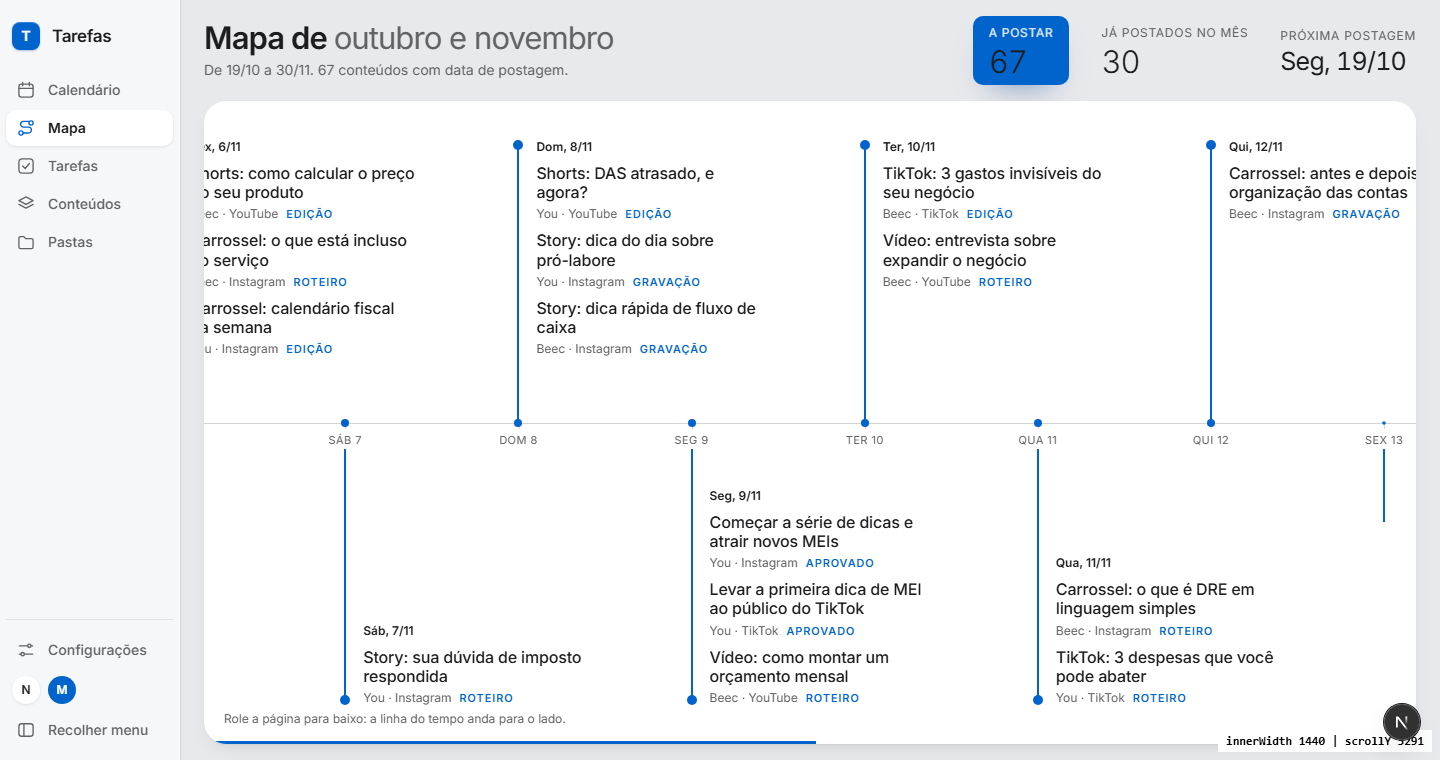
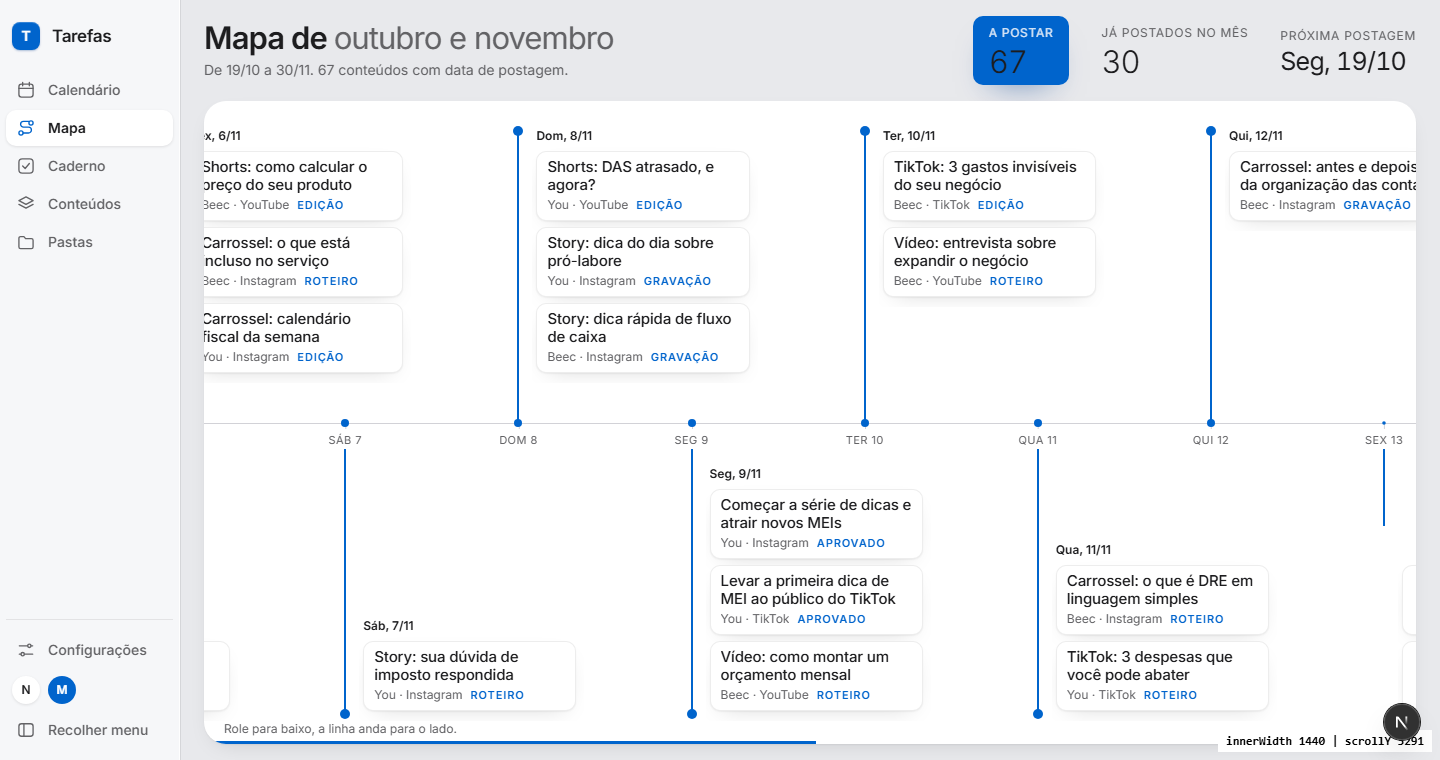
Mapa: cada conteúdo vira cartão que abre a ficha (item 75)

diff --git a/src/components/mapa/mapa.css b/src/components/mapa/mapa.css
@@ -45,7 +45,7 @@
   background: var(--sup); color: var(--texto); box-shadow: var(--sombra);
 }
 /* hastes altas: a bolinha fica perto da borda do card e os marcos usam a altura toda */
-.mapa-faixa { position: absolute; inset: 0 auto 0 0; width: calc((var(--dias) + var(--folga)) * var(--dia-w)); will-change: transform; --haste: calc(50cqh - 44px); }
+.mapa-faixa { position: absolute; inset: 0 auto 0 0; width: calc((var(--dias) + var(--folga)) * var(--dia-w)); will-change: transform; --haste: calc(50cqh - 30px); }
 
 .mapa-linha { position: absolute; left: 0; right: 0; top: 50%; height: 1px; background: var(--borda); transform-origin: left; }
 .mapa-dia { position: absolute; top: calc(50% + 12px); transform: translateX(-50%); font-size: 11px; line-height: 1; letter-spacing: 0.04em; text-transform: uppercase; color: var(--fraco); white-space: nowrap; }
@@ -66,36 +66,41 @@
 
 /* bloco do dia: data + conteúdos empilhados, ancorado na bolinha (em cima: cresce para baixo; embaixo: cresce para cima) */
 .mapa-bloco {
-  position: absolute; left: 18px; width: calc(var(--dia-w) * 1.3); min-width: 150px; max-width: 240px; max-height: calc(var(--haste) - 6px);
-  display: flex; flex-direction: column; gap: 8px;
+  position: absolute; left: 14px; padding: 3px 8px 10px 4px; /* folga para a sombra e o hover não serem cortados pela rolagem do bloco */
+  width: calc(var(--dia-w) * 1.3); min-width: 160px; max-width: 256px; max-height: calc(var(--haste) - 14px);
+  display: flex; flex-direction: column; gap: 6px;
   overflow-y: auto; scrollbar-width: thin; /* nunca esconde cartão: se o dia tiver mais do que cabe, o bloco rola por dentro */
 }
-.mapa-marco[data-lado="cima"] .mapa-bloco { top: calc(var(--haste) * -1 - 7px); }
+.mapa-marco[data-lado="cima"] .mapa-bloco { top: calc(var(--haste) * -1 - 7px); max-height: calc(var(--haste) + 2px); } /* em cima o bloco pode ir até perto da linha */
 .mapa-marco[data-lado="baixo"] .mapa-bloco { bottom: calc(var(--haste) * -1 - 7px); justify-content: flex-end; }
+/* cada conteúdo é um cartão: fundo branco, borda de 1px sutil, sombra macia e cantos da base da Névoa; clica (ou Enter) e abre a ficha */
 .mapa-card {
   --cor: var(--azul);
-  display: flex; flex-direction: column; gap: 3px; margin: 0; padding: 0; border: 0; background: none; text-align: left; cursor: pointer;
-  color: var(--texto); font: inherit; flex: none;
+  display: flex; flex-direction: column; gap: 2px; margin: 0; padding: 6px 10px; flex: none; text-align: left; cursor: pointer;
+  color: var(--texto); font: inherit;
+  background: var(--sup); border: 1px solid rgb(0 0 0 / 0.07); border-radius: var(--raio-b); box-shadow: var(--sombra);
+  transition: transform var(--dur) var(--curva), box-shadow var(--dur) var(--curva), border-color var(--dur) var(--curva);
 }
+.mapa-card:hover { transform: translateY(-1px); box-shadow: var(--sombra-alta); border-color: rgb(0 0 0 / 0.12); }
+.mapa-card:active { transform: none; }
 .mapa-card[data-postado="true"] { --cor: var(--fraco); }
 .mapa-bloco span { display: block; }
-.mapa-objetivo { font-size: 16px; font-weight: 500; line-height: 1.2; letter-spacing: -0.01em; display: -webkit-box !important; -webkit-box-orient: vertical; -webkit-line-clamp: 2; overflow: hidden; }
-.mapa-card:hover .mapa-objetivo { text-decoration: underline; text-underline-offset: 3px; text-decoration-color: var(--cor); }
-.mapa-card:focus-visible { outline: 2px solid var(--foco); outline-offset: 3px; border-radius: var(--raio-b); }
+.mapa-objetivo { font-size: 15px; font-weight: 500; line-height: 1.2; letter-spacing: -0.01em; display: -webkit-box !important; -webkit-box-orient: vertical; -webkit-line-clamp: 2; overflow: hidden; }
+.mapa-card:focus-visible { outline: 2px solid var(--foco); outline-offset: 2px; }
 .mapa-data { font-size: 12px; font-weight: 600; color: var(--texto); }
-.mapa-info { display: flex !important; flex-wrap: wrap; align-items: baseline; gap: 0 8px; }
-.mapa-meta { font-size: 12px; color: var(--fraco); }
-.mapa-estado { font-size: 11px; font-weight: 600; letter-spacing: 0.08em; text-transform: uppercase; color: var(--cor); }
+.mapa-info { display: flex !important; flex-wrap: nowrap; min-width: 0; align-items: baseline; gap: 0 8px; }
+.mapa-meta { font-size: 12px; color: var(--fraco); min-width: 0; overflow: hidden; text-overflow: ellipsis; white-space: nowrap; }
+.mapa-estado { flex: none; font-size: 11px; font-weight: 600; letter-spacing: 0.08em; text-transform: uppercase; color: var(--cor); }
 .mapa-card[data-postado="true"] .mapa-objetivo { color: var(--fraco); }
 .mapa-card[data-postado="true"] .mapa-estado::before { content: "✓ "; }
 
-.mapa-dica { position: absolute; left: 20px; bottom: 16px; margin: 0; font-size: 12px; color: var(--fraco); }
+.mapa-dica { position: absolute; left: 20px; bottom: 6px; margin: 0; font-size: 12px; color: var(--fraco); }
 .mapa-progresso { position: absolute; left: 0; bottom: 0; width: 100%; height: 3px; background: var(--azul); transform-origin: left; }
 
 @media (max-width: 767px) {
-  .mapa-faixa { --haste: calc(50cqh - 62px); }
-  .mapa-bloco { left: 14px; width: calc(var(--dia-w) * 1.8); max-width: none; min-width: 120px; gap: 6px; } /* blocos do mesmo lado ficam a 2 dias de distância: cabe */
+  .mapa-bloco { left: 10px; width: calc(var(--dia-w) * 1.9); max-width: none; min-width: 120px; } /* blocos do mesmo lado ficam a 2 dias de distância: cabe */
   .mapa-objetivo { font-size: 13px; -webkit-line-clamp: 2; }
+  .mapa-card { padding: 6px 8px; }
   .mapa-dica { left: 12px; right: 12px; }
 }
 

diff --git a/src/components/mapa/TelaMapa.tsx b/src/components/mapa/TelaMapa.tsx
@@ -156,7 +156,7 @@ function Linha({ dias, inicio, marcos, abrir, topo }: { dias: string[]; inicio: 
               ))}
               {porDia.map(([dia, ts], i) => <Marco key={dia} dia={dia} ts={ts} coluna={dias.indexOf(dia)} lado={i % 2 ? "baixo" : "cima"} abrir={abrir} />)}
             </div>
-            <p className="mapa-dica">Role a página para baixo: a linha do tempo anda para o lado.</p>
+            <p className="mapa-dica">Role para baixo, a linha anda para o lado.</p>
             <span className="mapa-progresso" aria-hidden />
           </div>
         </div>
